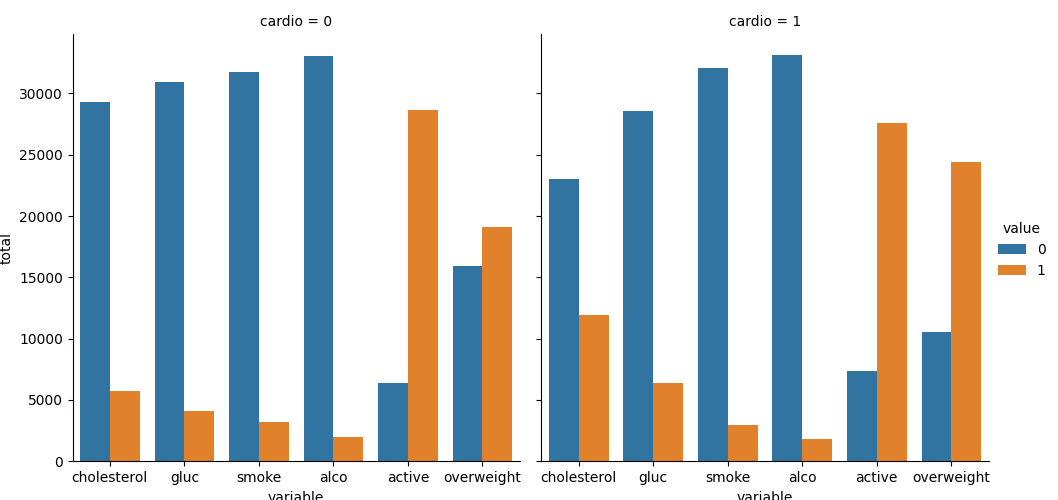
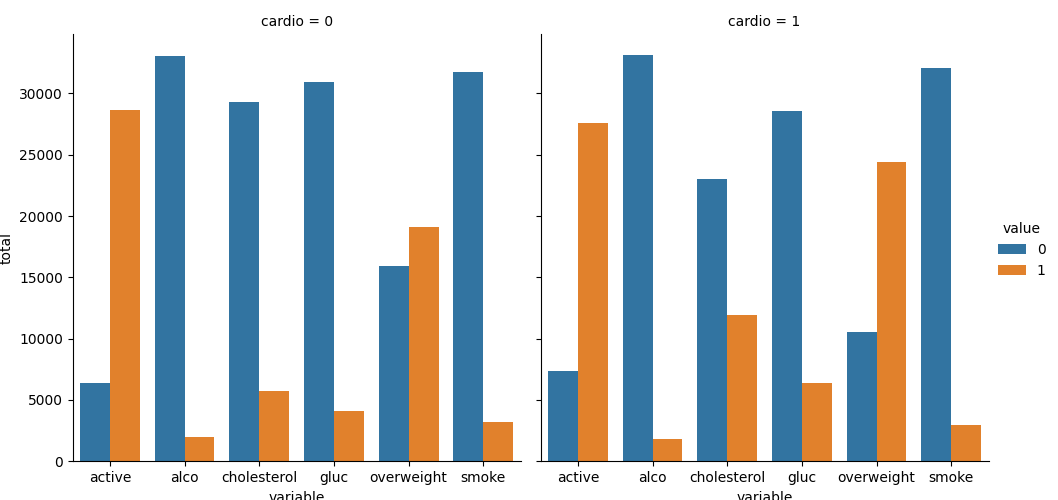
all tests passed

diff --git a/medical_data_visualizer.py b/medical_data_visualizer.py
@@ -3,6 +3,7 @@ import seaborn as sns
 import matplotlib.pyplot as plt
 import numpy as np
 
+
 # Import data
 df = pd.read_csv('medical_examination.csv')
 
@@ -18,7 +19,7 @@ df['gluc'] = df['gluc'].apply(lambda x : 0 if x == 1 else 1)
 # Draw Categorical Plot
 def draw_cat_plot():
     # Create DataFrame for cat plot using `pd.melt` using just the values from 'cholesterol', 'gluc', 'smoke', 'alco', 'active', and 'overweight'.
-    df_cat = pd.melt(df, id_vars=['cardio'], value_vars=['cholesterol', 'gluc', 'smoke', 'alco', 'active', 'overweight'])
+    df_cat = pd.melt(df, id_vars=['cardio'], value_vars=['active', 'alco', 'cholesterol', 'gluc', 'overweight', 'smoke'])
 
     # Group and reformat the data to split it by 'cardio'. Show the counts of each feature. You will have to rename one of the columns for the catplot to work correctly.
     # df_cat = df_cat.groupby(['cardio', 'variable', 'value'], as_index=False).size().rename(columns={'size':'total'})
